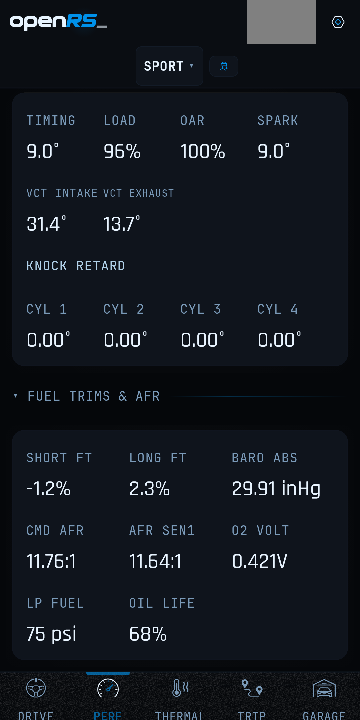
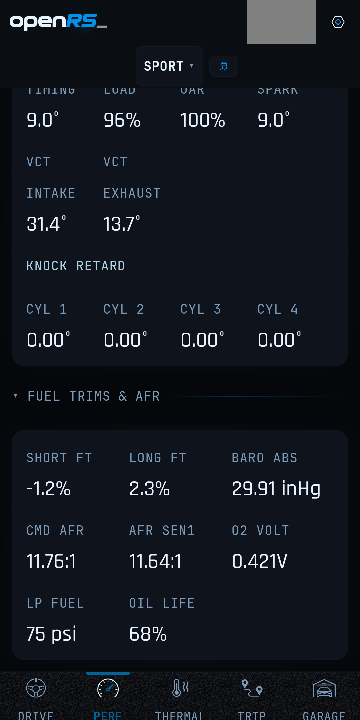
Wrap readout captions between words; shrink only an over-wide word (#593)
Review (coordinator's call): a caption shrunk to fill its column read as one
phrase with its neighbour (VCT INTAKE / VCT EXHAUST on PERF at font 1.3, about
8 dp apart). Never shrink a caption below its default size just to avoid a
wrap when the gap would fall under 12 dp; wrap between words instead.

ReadoutLabel now draws InstrumentLabel, unchanged, whenever every word of the
caption fits its column, so a long caption wraps between words at its own size
(FUEL USED on TRIP at 1.3 now reads FUEL / USED). Only a word wider than the
column shrinks, so that it fits with 12 dp to the next column, never smaller
than it draws at the phone's default font size (1 / font scale, at least half).

TripReadoutFitTest: the TRIP page case fails a shrunk caption, and both cases
require 12 dp after a shrunk one (measured to where the text ends, from
unclipped boxes); VCT INTAKE and VCT EXHAUST join the grid case's captions.
On ffe815c it failed both cases (24 + 13 problems, among them FUEL USED shrunk
6.1 dp from ECONOMY at 1.3); it passes now. Full debug suite: 2,430 tests, 0
failures. Goldens re-recorded: DIAG and PERF are back to staging's bytes; only
TRIP's font 1.3 and 2.0 images differ from staging.

Changed region(s): [[0.0611, 0.1222, 0.4889, 0.275], [0.7028, 0.1222, 0.825, 0.2139], [0.4889, 0.1528, 0.6111, 0.2139]]

diff --git a/android/app/src/test/java/com/openrs/dash/TripReadoutFitTest.kt b/android/app/src/test/java/com/openrs/dash/TripReadoutFitTest.kt
@@ -46,14 +46,15 @@ import java.time.Duration
  * #593: at 360 dp and font 1.3 the label of TRIP's live readout grid ran into its neighbour ("FUEL USEDECONOMY").
  *
  * The production [TripPage] (idle, no map, as the screenshot test draws it) under the app's MaterialTheme at 360 dp, in
- * every fuel volume and economy unit, at font 1.0 and 1.3: each label of the readout's three rows is one line, is not
- * cut (no line dropped past its maximum and none wider than the label's box: a clipped label still counts one line) and ends at least [GAP_DP]
- * before the next column's label starts.
+ * every fuel volume and economy unit, at font 1.0 and 1.3: no label of the readout's three rows is cut (no line dropped
+ * past its maximum and none wider than the label's box: a clipped label still counts one line), none breaks inside a
+ * word, none is shrunk (each of their words fits its column, so a long one wraps between words), and each ends at least
+ * [GAP_DP] before the next column's label.
  *
  * Every [ReadoutGrid] (PERF, DIAG, TRIP's replay and summary) draws its captions the same way, so the grid itself is
- * also checked with the longest captions its callers use, in one to four columns at 360 dp, font 1.0 / 1.3 / 2.0: no
- * caption cut, none broken inside a word (a caption too wide for its column even at the smallest size wraps between
- * words), and each [GAP_DP] clear of the next.
+ * also checked with the longest captions its callers use, in one to four columns at 360 dp, font 1.0 / 1.3 / 2.0: none
+ * cut or broken inside a word, each [GAP_DP] clear of the next, and [SHRUNK_GAP_DP] clear when shrunk below its 10 sp
+ * (VCT INTAKE / VCT EXHAUST shrunk to fill their columns at 1.3 read as one phrase).
  */
 @RunWith(RobolectricTestRunner::class)
 @GraphicsMode(GraphicsMode.Mode.NATIVE)
@@ -67,7 +68,9 @@ class TripReadoutFitTest {
         val TRIP_SCALES = listOf(1.0f, 1.3f)
         /** The longest captions [ReadoutGrid]'s callers pass (DIAG, PERF, TRIP's summary and replay). */
         val LONG_CAPTIONS = listOf("LOADED SAMPLES", "CHARGE TARGET", "FUEL USED", "TOP SPEED", "DURATION", "IGNITION",
-            "DISTANCE", "SHORT FT")
+            "DISTANCE", "SHORT FT", "VCT INTAKE", "VCT EXHAUST")
+        /** The gap a caption shrunk below its 10 sp keeps to the next column: less read as one phrase with it. */
+        const val SHRUNK_GAP_DP = 12f
         val FUEL = listOf(UnitIds.L, UnitIds.US_GAL, UnitIds.UK_GAL)
         val ECONOMY = listOf(UnitIds.L100KM, UnitIds.KML, UnitIds.MPG_US, UnitIds.MPG_UK)
         /** The first label of each row; the rest of a row is every text placed level with it. */
@@ -96,6 +99,22 @@ class TripReadoutFitTest {
 
     private fun lines(n: SemanticsNode): Int? = layout(n)?.lineCount
 
+    /** A node's box in the root, unclipped (boundsInRoot is cut to what shows; the grid case scrolls past the screen). */
+    private fun box(n: SemanticsNode): androidx.compose.ui.geometry.Rect =
+        androidx.compose.ui.geometry.Rect(n.positionInRoot, androidx.compose.ui.geometry.Size(n.size.width.toFloat(), n.size.height.toFloat()))
+
+    /** Drawn below the caption's 10 sp (the sp before the font scale). */
+    private fun shrunk(n: SemanticsNode): Boolean = (layout(n)?.layoutInput?.style?.fontSize?.value ?: 10f) < 9.99f
+
+    /** The gap after [a] to [b]: [GAP_DP] at least, [SHRUNK_GAP_DP] when [a] was shrunk. */
+    private fun gapProblem(case: String, a: SemanticsNode, b: SemanticsNode, density: Float): String? {
+        // Where the text ends, not the box: a caption wrapped over two lines may get a box as wide as its column
+        val inkRight = layout(a)?.let { l -> box(a).left + (0 until l.lineCount).maxOf { l.getLineRight(it) } } ?: box(a).right
+        val gap = (box(b).left - inkRight) / density
+        val need = if (shrunk(a)) SHRUNK_GAP_DP else GAP_DP
+        return if (gap < need) "[$case] '${textOf(a)}'${if (shrunk(a)) " (shrunk)" else ""} ends ${"%.1f".format(gap)} dp from '${textOf(b)}'" else null
+    }
+
     /** A label cut short (clipped, so the fit test's line count alone can't see it) or broken inside a word. */
     private fun cutOrBroken(case: String, n: SemanticsNode): List<String> {
         val l = layout(n) ?: return listOf("[$case] '${textOf(n)}' has no text layout")
@@ -103,10 +122,10 @@ class TripReadoutFitTest {
         // Cut: lines dropped past maxLines, or a line wider than the label's own box (clipped). The layout's own
         // hasVisualOverflow isn't used: the semantics action's layout reports the column's width, not the text's.
         if (l.multiParagraph.didExceedMaxLines) out += "[$case] '${textOf(n)}' is cut (lines past its maximum)"
-        val box = n.boundsInRoot.width
+        val boxWidth = box(n).width
         for (line in 0 until l.lineCount) {
             val w = l.getLineRight(line) - l.getLineLeft(line)
-            if (w > box + 0.5f) out += "[$case] '${textOf(n)}' is cut (line $line ${"%.0f".format(w)} px in a $box px box)"
+            if (w > boxWidth + 0.5f) out += "[$case] '${textOf(n)}' is cut (line $line ${"%.0f".format(w)} px in a $boxWidth px box)"
         }
         val text = textOf(n).orEmpty()
         for (line in 0 until l.lineCount - 1) {
@@ -148,12 +167,10 @@ class TripReadoutFitTest {
                 val row = texts.filter { kotlin.math.abs(it.boundsInRoot.top - top) < 0.5f }.sortedBy { it.boundsInRoot.left }
                 if (row.size != 4) out += "[$case] row '$start' has ${row.size} labels: ${row.map { textOf(it) }}"
                 row.forEach { out += cutOrBroken(case, it) }
-                row.forEach { if (lines(it) != 1) out += "[$case] '${textOf(it)}' takes ${lines(it)} lines" }
-                row.zipWithNext().forEach { (a, b) ->
-                    // the text as drawn, not its node's box: a one-line label's box is its text's width
-                    val gap = (b.boundsInRoot.left - a.boundsInRoot.right) / density
-                    if (gap < GAP_DP) out += "[$case] '${textOf(a)}' ends ${"%.1f".format(gap)} dp from '${textOf(b)}'"
-                }
+                // FUEL USED wraps between its words at 1.3 rather than shrink against ECONOMY (coordinator's call on #611)
+                row.forEach { if (shrunk(it)) out += "[$case] '${textOf(it)}' shrunk below 10 sp though its words fit" }
+                // the text as drawn: a label's box is its text's width
+                row.zipWithNext().forEach { (a, b) -> gapProblem(case, a, b, density)?.let { out += it } }
                 println("#593 [$case] ${row.map { textOf(it) to it.boundsInRoot.width / density }}")
             }
             return out
@@ -189,11 +206,8 @@ class TripReadoutFitTest {
             val out = mutableListOf<String>()
             if (texts.size != LONG_CAPTIONS.size) out += "[$case] captions found: ${texts.map { textOf(it) }}"
             texts.forEach { out += cutOrBroken(case, it) }
-            texts.groupBy { it.boundsInRoot.top }.values.forEach { row ->
-                row.sortedBy { it.boundsInRoot.left }.zipWithNext().forEach { (a, b) ->
-                    val gap = (b.boundsInRoot.left - a.boundsInRoot.right) / density
-                    if (gap < GAP_DP) out += "[$case] '${textOf(a)}' ends ${"%.1f".format(gap)} dp from '${textOf(b)}'"
-                }
+            texts.groupBy { box(it).top }.values.forEach { row ->
+                row.sortedBy { box(it).left }.zipWithNext().forEach { (a, b) -> gapProblem(case, a, b, density)?.let { out += it } }
             }
             return out
         } finally {

diff --git a/android/app/src/main/java/com/openrs/dash/ui/Instrument.kt b/android/app/src/main/java/com/openrs/dash/ui/Instrument.kt
@@ -31,6 +31,7 @@ import androidx.compose.ui.geometry.Size
 import androidx.compose.ui.graphics.Color
 import androidx.compose.ui.hapticfeedback.HapticFeedbackType
 import androidx.compose.ui.input.pointer.pointerInput
+import androidx.compose.ui.platform.LocalDensity
 import androidx.compose.ui.platform.LocalHapticFeedback
 import androidx.compose.ui.res.painterResource
 import androidx.compose.ui.text.font.FontWeight
@@ -363,9 +364,10 @@ internal data class Readout(
 
 /**
  * A [ReadoutGrid] caption, at least 4 dp clear of the next column (#593: "FUEL USED" met "ECONOMY" on TRIP at 360 dp,
- * font 1.3). A caption that fits its column is [InstrumentLabel] as before. One that doesn't steps down in size, never
- * below [READOUT_LABEL_MIN] of the user's text size, to stay on one line; one still too wide at that size wraps between
- * words at that size. Never clipped: a capped single line would cut it silently.
+ * font 1.3). A caption that fits its column, on one line or wrapped between words, is [InstrumentLabel] as before. Only a
+ * word wider than the column steps down in size, never smaller than it draws at the phone's default font size (nor
+ * below half its size), and then to leave at least 12 dp to the next column: a shrunk caption filling its column read as one phrase with its neighbour
+ * ("VCT INTAKE VCT EXHAUST" on PERF at font 1.3). Never clipped: a capped single line would cut it silently.
  */
 @Composable private fun ReadoutLabel(text: String) {
     androidx.compose.foundation.layout.BoxWithConstraints(Modifier.padding(end = 4.dp)) {
@@ -374,18 +376,22 @@ internal data class Readout(
         val base = androidx.compose.material3.LocalTextStyle.current.merge(
             fontFamily = JetBrainsMonoFamily, fontSize = 10.sp, letterSpacing = 0.5.sp,
         )
-        val room = constraints.maxWidth
-        fun width(scale: Float) = measurer.measure(
-            text, base.copy(fontSize = base.fontSize * scale, letterSpacing = base.letterSpacing * scale),
+        fun width(s: String, scale: Float) = measurer.measure(
+            s, base.copy(fontSize = base.fontSize * scale, letterSpacing = base.letterSpacing * scale),
             maxLines = 1, softWrap = false,
         ).size.width
-        val full = width(1f)
-        if (full <= room) {
+        val words = text.split(' ').filter { it.isNotEmpty() }
+        fun widest(scale: Float) = words.maxOf { width(it, scale) }
+        if (widest(1f) <= constraints.maxWidth) {
             InstrumentLabel(text)
         } else {
-            // Width is close to linear in size: start from the ratio, then step down until it fits or hits the floor
-            var scale = (room.toFloat() / full).coerceAtLeast(READOUT_LABEL_MIN)
-            while (scale > READOUT_LABEL_MIN && width(scale) > room) scale = (scale - 0.02f).coerceAtLeast(READOUT_LABEL_MIN)
+            // The widest word fits with 8 dp more room (12 dp to the next column). Width is close to linear in size:
+            // start from the ratio, then step down until it fits or reaches the floor.
+            val d = LocalDensity.current
+            val room = constraints.maxWidth - with(d) { 8.dp.roundToPx() }
+            val floor = (1f / d.fontScale).coerceIn(0.5f, 1f)
+            var scale = (room.toFloat() / widest(1f)).coerceIn(floor, 1f)
+            while (scale > floor && widest(scale) > room) scale = (scale - 0.02f).coerceAtLeast(floor)
             androidx.compose.material3.Text(
                 text, color = textColor(Dim), fontFamily = JetBrainsMonoFamily,
                 fontSize = base.fontSize * scale, letterSpacing = base.letterSpacing * scale,
@@ -393,9 +399,6 @@ internal data class Readout(
         }
     }
 }
-
-/** The smallest a [ReadoutGrid] caption shrinks to, as a share of its 10 sp: 7 sp. */
-private const val READOUT_LABEL_MIN = 0.7f
 
 /**
  * A section's readings as one instrument panel (was one card per value). Rows of equal-width

diff --git a/android/changelog.d/fixed/593-trip-readout-labels.md b/android/changelog.d/fixed/593-trip-readout-labels.md
@@ -1,1 +1,1 @@
-- **TRIP's readout labels keep a gap at large font sizes** — At 360 dp and font 1.3 TRIP's FUEL USED label ran into ECONOMY beside it. A label in the readout grids (TRIP, PERF, DIAG) now keeps at least 4 dp from the next column: one that doesn't fit its column steps down in size to stay on one line, and one still too wide at 7 sp wraps between words, never cut (`TripReadoutFitTest`). ([#593](https://github.com/klexical/openRS_/issues/593))
+- **TRIP's readout labels keep a gap at large font sizes** — At 360 dp and font 1.3 TRIP's FUEL USED label ran into ECONOMY beside it. A label in the readout grids (TRIP, PERF, DIAG) now keeps at least 4 dp from the next column and wraps between its words when it doesn't fit; only a single word wider than its column shrinks, never smaller than at the default font size and always 12 dp clear of the next column, and no label is cut (`TripReadoutFitTest`). ([#593](https://github.com/klexical/openRS_/issues/593))
